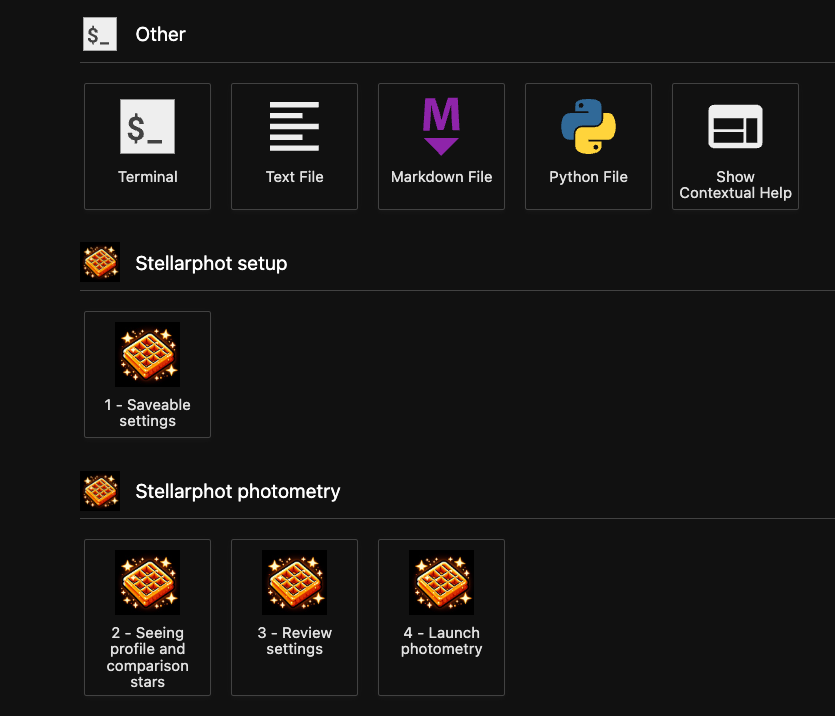
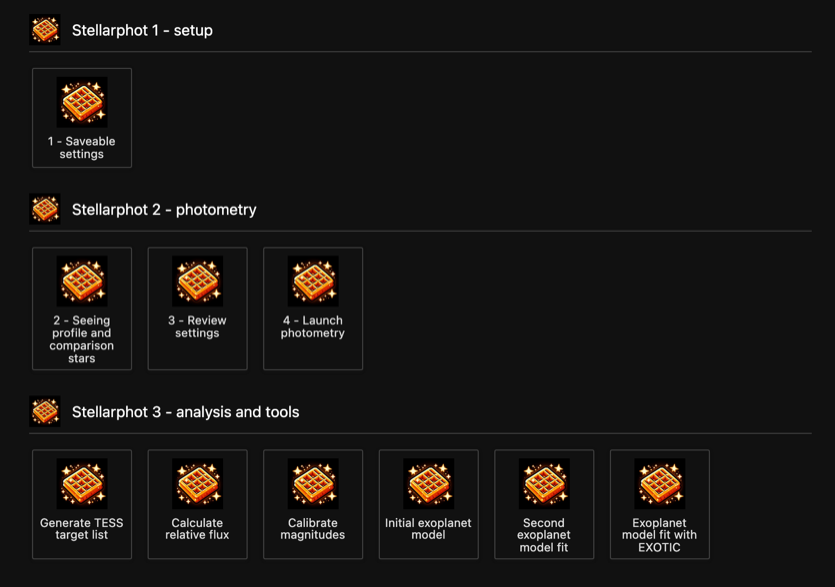
Number the launcher sections so JupyterLab 4.6 orders them correctly
JupyterLab 4.6 sorts launcher categories by rank and breaks ties
alphabetically; jupyter_app_launcher sets no rank, so the three
stellarphot sections rendered in reverse run order. Name them
"Stellarphot 1 - setup", "Stellarphot 2 - photometry" and
"Stellarphot 3 - analysis and tools" so alphabetical order is run
order, note the numbering in the getting-started docs, and retake
the launcher screenshot on JupyterLab 4.6.1.

Fixes #632

Claude-Session: https://claude.ai/code/session_012FhqwQ2ge1WHNpNRMCvSqJ

diff --git a/docs/stellarphot/getting_started.rst b/docs/stellarphot/getting_started.rst
@@ -73,10 +73,13 @@ If you open up JupyterLab, the launcher should have a section that looks like th
     :width: 400px
     :alt: JupyterLab Launcher with stellarphot notebooks
 
-Each of the notebooks corresponds to the steps in the previous section. Open each notebook in order, and run
-all of the cells in the notebook. In each will be a graphical interface to enter the camera and other settings
-(in notebook 1), measuring the seeing and choose comparison stars (in notebook 2), review all of your settings
-(in notebook 3), and perform photometry (in notebook 4).
+The launcher sections and the notebooks in them are numbered in the order you
+should use them. Each of the numbered notebooks corresponds to a step in the previous
+section. Open each notebook in order, and run all of the cells in the notebook. In each
+will be a graphical interface to enter the camera and other settings (in notebook 1),
+measuring the seeing and choose comparison stars (in notebook 2), review all of your
+settings (in notebook 3), and perform photometry (in notebook 4). The unnumbered
+notebooks in the "analysis and tools" section are not part of that sequence.
 
 When the photometry is done there will be a new notebook called `photometry_run.ipynb` that will have a record
 of the photometry that was done.

diff --git a/docs/diagrams-02-entry-points.md b/docs/diagrams-02-entry-points.md
@@ -45,19 +45,19 @@ flowchart LR
     classDef widget fill:#fff3e0,stroke:#ef6c00,color:#212121
     classDef api fill:#e8f5e9,stroke:#2e7d32,color:#212121
 
-    subgraph sg_setup["catalog: Stellarphot setup"]
+    subgraph sg_setup["catalog: Stellarphot 1 - setup"]
         direction TB
         nb01["1 - Saveable settings"]:::nb
     end
 
-    subgraph sg_phot["catalog: Stellarphot photometry"]
+    subgraph sg_phot["catalog: Stellarphot 2 - photometry"]
         direction TB
         nb02["2 - Seeing profile and<br/>comparison stars"]:::nb
         nb03["3 - Review settings"]:::nb
         nb04["4 - Launch photometry"]:::nb
     end
 
-    subgraph sg_tools["catalog: Stellarphot analysis and tools"]
+    subgraph sg_tools["catalog: Stellarphot 3 - analysis and tools"]
         direction TB
         nb_target["Generate TESS target list"]:::nb
         nb_flux["Calculate relative flux"]:::nb

diff --git a/CHANGES.rst b/CHANGES.rst
@@ -165,6 +165,10 @@ Other Changes and Additions
 
 Bug Fixes
 ^^^^^^^^^
++ The three stellarphot sections of the JupyterLab launcher are now named
+  ``Stellarphot 1 - setup``, ``Stellarphot 2 - photometry`` and
+  ``Stellarphot 3 - analysis and tools``, so they appear in that order on
+  JupyterLab 4.6, which sorts launcher sections alphabetically. [#632]
 + ``transform_to_catalog()`` no longer crashes with a ``UnitConversionError``
   when the observed error column carries a unit, as columns of the
   ``QTable``-based ``PhotometryData`` can. A unit convertible to magnitudes
